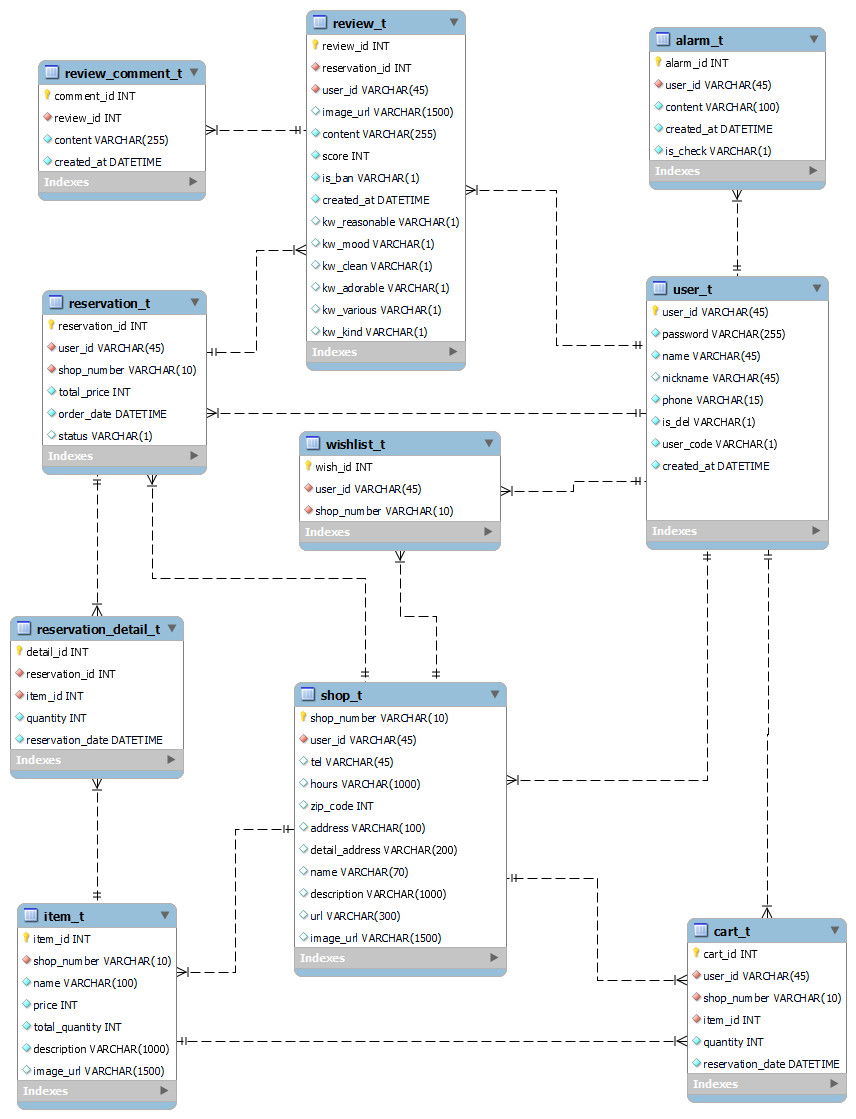
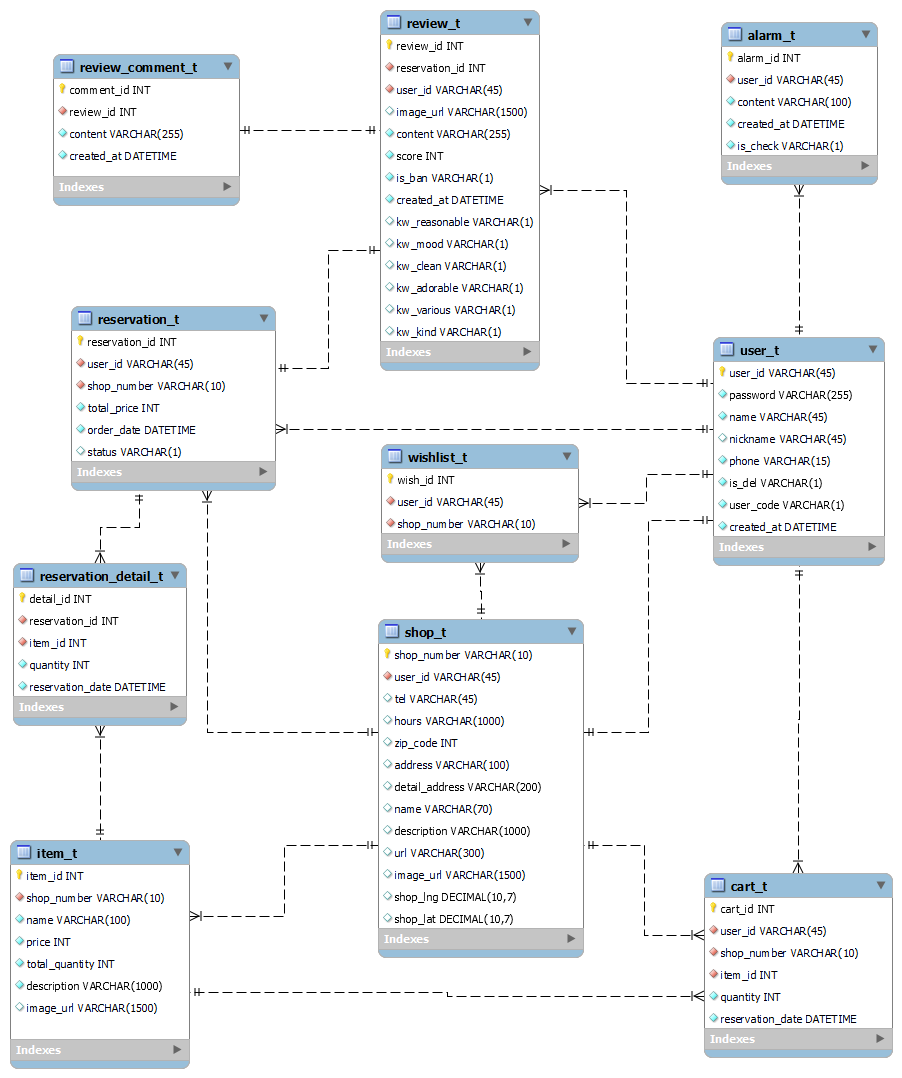
📝 Update ERD, README.md(기사이미지, 팀원소개)

diff --git a/README.md b/README.md
@@ -9,6 +9,7 @@
 - 주제 : 앱 기반 피크닉 물품 대여 중개 플랫폼 서비스
 - 팀명 : 👖 청바지! (**청**춘은 **바**로 **지**금)
 
+![팀원소개](outputs/images/팀원소개.PNG)
 
 ## 2. 개요
 
@@ -24,8 +25,8 @@
 >  **피어나**를 통해 기업과 고객은 **일회용품 사용에 대한 문제점 인식과 개선**을 이루고, 도움을 줄 수 있기를 기대합니다.
 >
 
-<img src = "https://s3.us-west-2.amazonaws.com/secure.notion-static.com/0f39a69d-88f3-4bcb-89ac-b94e685f1ca7/Untitled.png?X-Amz-Algorithm=AWS4-HMAC-SHA256&X-Amz-Content-Sha256=UNSIGNED-PAYLOAD&X-Amz-Credential=AKIAT73L2G45EIPT3X45%2F20220421%2Fus-west-2%2Fs3%2Faws4_request&X-Amz-Date=20220421T041336Z&X-Amz-Expires=86400&X-Amz-Signature=1419c561ba3db976fdf55858e9267347738608169c4de373669c641bcdc6b459&X-Amz-SignedHeaders=host&response-content-disposition=filename%20%3D%22Untitled.png%22&x-id=GetObject" width="40%" height="40%">
-<img src = "https://s3.us-west-2.amazonaws.com/secure.notion-static.com/90a0a4e0-c8ff-4f24-aa9c-043dce335596/Untitled.png?X-Amz-Algorithm=AWS4-HMAC-SHA256&X-Amz-Content-Sha256=UNSIGNED-PAYLOAD&X-Amz-Credential=AKIAT73L2G45EIPT3X45%2F20220421%2Fus-west-2%2Fs3%2Faws4_request&X-Amz-Date=20220421T042458Z&X-Amz-Expires=86400&X-Amz-Signature=2d2628cfe2dfc9446f55e3a4af45c316d9731795f329094640d5b305ae8dc354&X-Amz-SignedHeaders=host&response-content-disposition=filename%20%3D%22Untitled.png%22&x-id=GetObject" width="30%" height="30%">
+![기사1](outputs/images/기사1.png){: width="40%" height="40%"}
+![기사2](outputs/images/기사2.png){: width="30%" height="30%"}
 
 
 ### 피어나 페르소나
